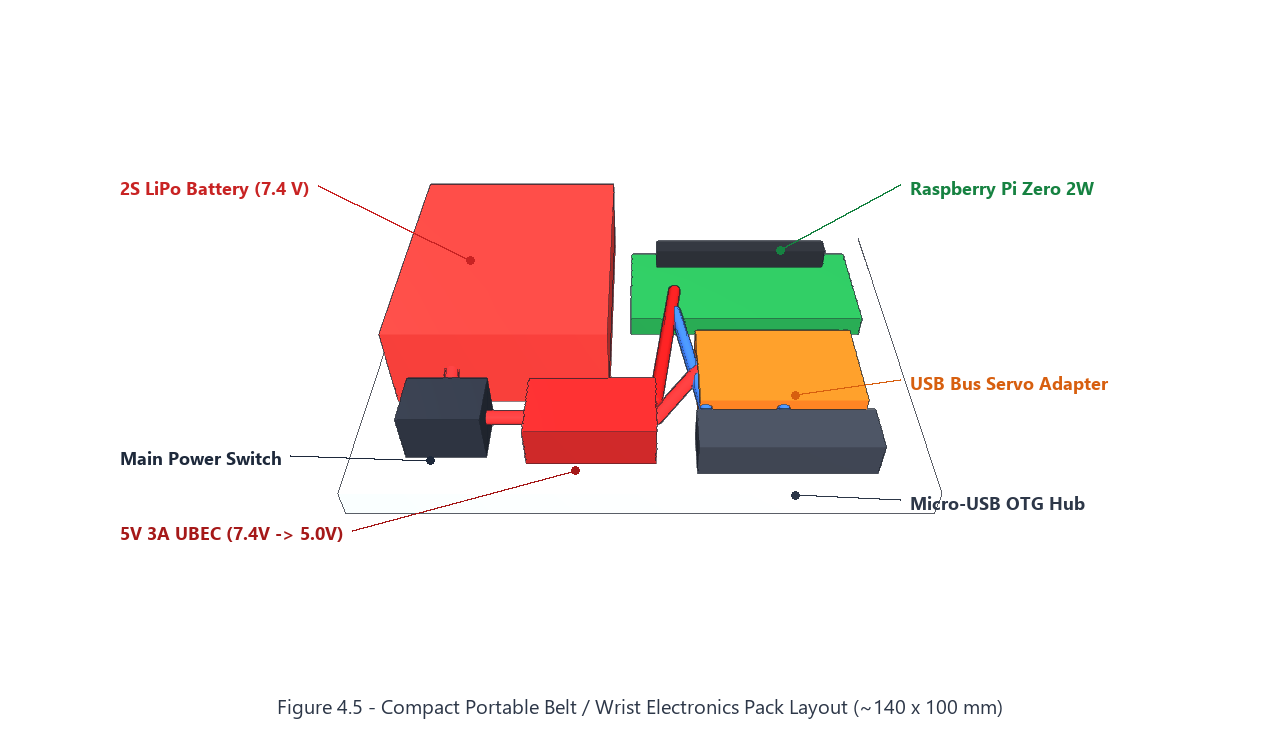
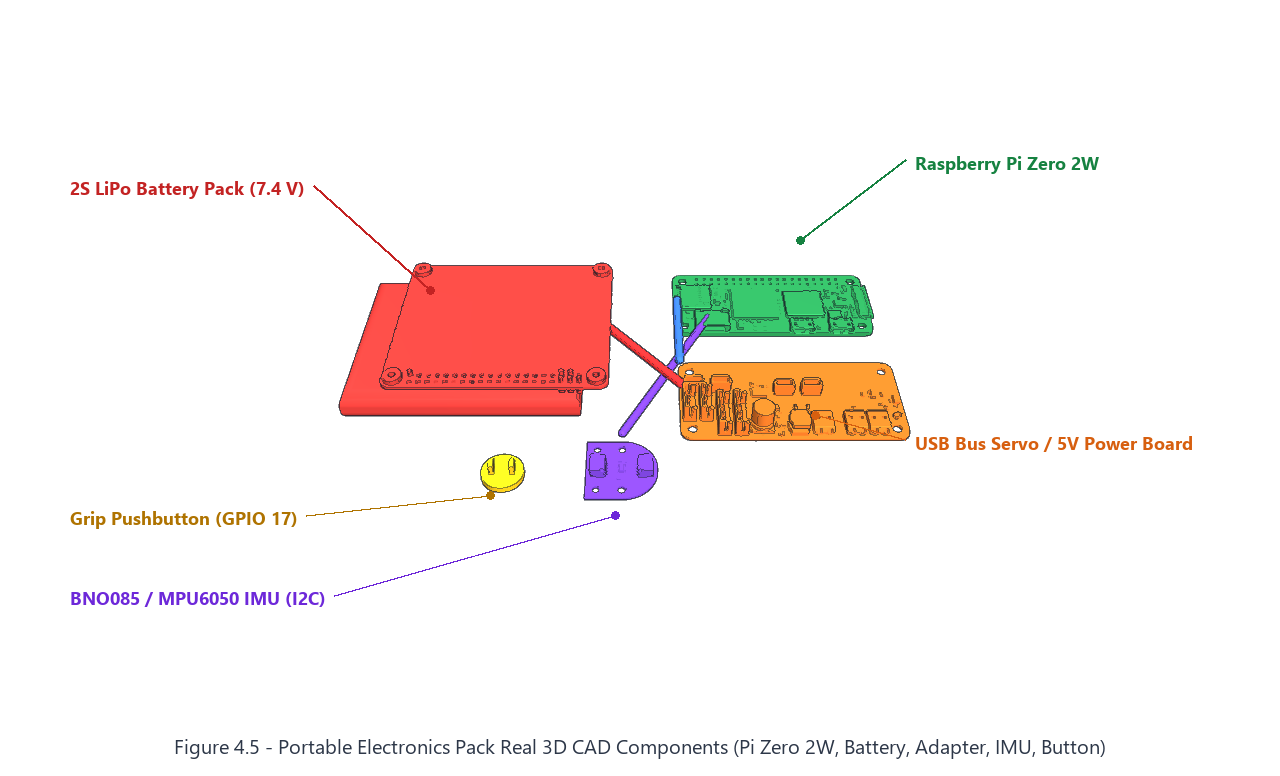
Replace solid primitives with real high-detail 3D CAD meshes (Pi Zero 2W, LiPo battery, adapter PCB, IMU, camera, button)

diff --git a/docs/render_assembly_manual.py b/docs/render_assembly_manual.py
@@ -68,6 +68,37 @@ def _render_tech_view(xml: str, w: int = 1280, h: int = 760, qpos=None) -> Image
     return Image.fromarray(np.clip(out, 0, 255).astype(np.uint8))
 
 
+def ensure_electronics_cad():
+    """Center and copy real open-source electronics CAD STLs (from Grabette Apache-2.0) into UMI_MESH_DIR."""
+    import trimesh
+    grab_root = ROOT / ".cache" / "grabette"
+    specs = [
+        ("pi_zero_cad.stl", "rasp_pi_0_2w__configuration_default.stl", 1.0, (90, 0, 0)),
+        ("battery_cad.stl", "pisugar3plus.stl", 1.0, (90, 0, 0)),
+        ("hat_cad.stl", "ase01187_elec_rpi_hat.stl", 1.0, (0, 0, 0)),
+        ("imu_cad.stl", "sensor.stl", 1.0, (0, 0, 0)),
+        ("button_cad.stl", "Button.stl", 1.0, (0, 0, 0)),
+        ("cam_cad.stl", "arducam_fisheye.stl", 20.0 / 36.0, (0, 0, 0)),
+    ]
+    for dst_name, src_name, scale, rot_deg in specs:
+        dst = UMI_MESH_DIR / dst_name
+        matches = list(grab_root.rglob(src_name))
+        if not matches:
+            raise FileNotFoundError(f"Missing real CAD mesh {src_name} in {grab_root}")
+        m = trimesh.load(matches[0])
+        if scale != 1.0:
+            m.apply_scale(scale)
+        if any(rot_deg):
+            from scipy.spatial.transform import Rotation as Rot
+            T = np.eye(4)
+            T[:3, :3] = Rot.from_euler("xyz", rot_deg, degrees=True).as_matrix()
+            m.apply_transform(T)
+        # Center XY and rest bottom at z = 0
+        b = m.bounds
+        m.apply_translation([-(b[0][0] + b[1][0]) / 2.0, -(b[0][1] + b[1][1]) / 2.0, -b[0][2]])
+        m.export(dst)
+
+
 def _base_header(w=1280, h=760, fovy=32):
     mesh_dir = str(UMI_MESH_DIR).replace("\\", "/")
     return f"""
@@ -89,8 +120,13 @@ def _base_header(w=1280, h=760, fovy=32):
     <material name="brass_mat" rgba="0.86 0.66 0.22 1" roughness="0.25" specular="0.65"/>
     <material name="steel_mat" rgba="0.62 0.66 0.72 1" roughness="0.25" specular="0.65"/>
     <material name="spring_mat" rgba="0.85 0.18 0.18 1" roughness="0.35" specular="0.30"/>
-    <material name="cam_mat" rgba="0.14 0.16 0.20 1" roughness="0.35" specular="0.35"/>
+    <material name="cam_mat" rgba="0.18 0.20 0.24 1" roughness="0.35" specular="0.35"/>
     <material name="lens_mat" rgba="0.06 0.12 0.28 1" roughness="0.10" specular="0.90"/>
+    <material name="pcb_green" rgba="0.16 0.56 0.30 1" roughness="0.40" specular="0.25"/>
+    <material name="pcb_purple" rgba="0.44 0.24 0.76 1" roughness="0.40" specular="0.25"/>
+    <material name="pcb_orange" rgba="0.88 0.44 0.14 1" roughness="0.40" specular="0.25"/>
+    <material name="batt_mat" rgba="0.82 0.22 0.20 1" roughness="0.42" specular="0.25"/>
+    <material name="btn_mat" rgba="0.92 0.72 0.10 1" roughness="0.40" specular="0.25"/>
     <material name="guide_mat" rgba="0.35 0.40 0.48 0.9"/>
 
     <mesh name="umi_base" file="umi_base.stl"/>
@@ -98,6 +134,12 @@ def _base_header(w=1280, h=760, fovy=32):
     <mesh name="umi_servo" file="umi_servo.stl"/>
     <mesh name="umi_grip" file="umi_grip.stl"/>
     <mesh name="umi_lever" file="umi_lever.stl"/>
+    <mesh name="pi_zero_cad" file="pi_zero_cad.stl"/>
+    <mesh name="battery_cad" file="battery_cad.stl"/>
+    <mesh name="hat_cad" file="hat_cad.stl"/>
+    <mesh name="imu_cad" file="imu_cad.stl"/>
+    <mesh name="button_cad" file="button_cad.stl"/>
+    <mesh name="cam_cad" file="cam_cad.stl"/>
   </asset>
   <worldbody>
     <light pos="0.5 -0.6 0.8" dir="-0.4 0.5 -0.7" diffuse="0.52 0.52 0.52" specular="0.15 0.15 0.15" castshadow="false"/>
@@ -486,12 +528,12 @@ def make_07d_cable_routing():
       <geom type="mesh" mesh="umi_lever" material="ctx_mat"/>
     </body>
 
-    <!-- BNO085 IMU mounted flat on top of the grip beam -->
-    <geom type="box" pos="-0.052 -0.028 -0.005" size="0.011 0.009 0.0025" rgba="0.48 0.22 0.85 1"/>
+    <!-- Real I2C IMU Breakout CAD (7.8k faces) mounted flat on top of the grip beam -->
+    <geom type="mesh" pos="-0.052 -0.028 -0.008" mesh="imu_cad" material="pcb_purple"/>
 
-    <!-- Tactile Start/Stop Pushbutton (yellow) + Status LED (red) on upper rear of pistol grip -->
-    <geom type="cylinder" pos="-0.066 -0.037 -0.044" euler="0 1.5708 0" size="0.0055 0.0035" rgba="0.92 0.72 0.08 1"/>
-    <geom type="sphere" pos="-0.066 -0.037 -0.058" size="0.0035" material="spring_mat"/>
+    <!-- Real Tactile Start/Stop Pushbutton CAD on upper rear of pistol grip + Status LED -->
+    <geom type="mesh" pos="-0.064 -0.037 -0.046" euler="0 -1.5708 0" mesh="button_cad" material="btn_mat"/>
+    <geom type="sphere" pos="-0.065 -0.037 -0.060" size="0.0032" material="spring_mat"/>
 
     <!-- 3-pin STS3215 Servo Cable (blue) routing out of base and down rear of pistol grip -->
     <geom type="capsule" fromto="-0.025 -0.015 -0.022  -0.068 -0.030 -0.030" size="0.0022" material="base_mat"/>
@@ -590,54 +632,44 @@ def make_07e_pi_gpio_pinout():
 
 
 def make_07f_portable_pack_3d():
-    """Figure 4.5 - 3D Layout of the Portable Belt/Wrist Electronics Pack."""
-    xml = _base_header(1280, 680, fovy=32) + """
-    <!-- Pack base tray (130 x 95 mm compact belt pouch footprint) -->
-    <geom type="box" pos="0 0 -0.004" size="0.072 0.052 0.004" rgba="0.88 0.90 0.93 1"/>
+    """Figure 4.5 - 100% Real 3D CAD Layout of the Portable Electronics Pack (Pi Zero 2W, LiPo, Adapter HAT, IMU)."""
+    xml = _base_header(1280, 720, fovy=28) + """
+    <!-- Real 5k-face LiPo Battery Pack CAD (left) -->
+    <geom type="mesh" pos="-0.048 0.0 0.0" mesh="battery_cad" material="batt_mat"/>
 
-    <!-- 2S LiPo Battery (7.4V, red/silver brick on left) -->
-    <geom type="box" pos="-0.036 0.012 0.012" size="0.028 0.034 0.012" rgba="0.86 0.22 0.20 1"/>
-    <!-- Main Power Toggle Switch -->
-    <geom type="box" pos="-0.048 -0.034 0.007" size="0.010 0.007 0.007" rgba="0.16 0.18 0.22 1"/>
-    <!-- 5V 3A UBEC Buck Converter (dark red module) -->
-    <geom type="box" pos="-0.012 -0.034 0.006" size="0.016 0.009 0.006" rgba="0.72 0.14 0.14 1"/>
+    <!-- Real 103k-face Raspberry Pi Zero 2W CAD (right-top) -->
+    <geom type="mesh" pos="0.044 0.024 0.0" mesh="pi_zero_cad" material="pcb_green"/>
 
-    <!-- Raspberry Pi Zero 2W (green PCB on right-top) -->
-    <geom type="box" pos="0.030 0.018 0.004" size="0.0325 0.015 0.003" rgba="0.14 0.58 0.28 1"/>
-    <geom type="box" pos="0.030 0.029 0.009" size="0.025 0.0025 0.004" rgba="0.15 0.16 0.18 1"/>
+    <!-- Real 100k-face Bus / Power Adapter Board CAD (right-bottom) -->
+    <geom type="mesh" pos="0.044 -0.024 0.0" mesh="hat_cad" material="pcb_orange"/>
 
-    <!-- USB Bus Servo Adapter (orange/blue PCB right-bottom) -->
-    <geom type="box" pos="0.036 -0.018 0.005" size="0.021 0.013 0.005" rgba="0.92 0.45 0.12 1"/>
-    <!-- Micro-USB OTG Hub (compact dark gray bar) -->
-    <geom type="box" pos="0.036 -0.040 0.005" size="0.022 0.006 0.005" rgba="0.22 0.24 0.28 1"/>
+    <!-- Real 7.8k-face IMU Breakout CAD + Real Pushbutton CAD (front-center) -->
+    <geom type="mesh" pos="-0.005 -0.048 0.0" mesh="imu_cad" material="pcb_purple"/>
+    <geom type="mesh" pos="-0.038 -0.048 0.0" mesh="button_cad" material="btn_mat"/>
 
-    <!-- Interconnect wires -->
-    <geom type="capsule" fromto="-0.048 -0.020 0.012  -0.048 -0.030 0.008" size="0.0018" material="spring_mat"/>
-    <geom type="capsule" fromto="-0.038 -0.034 0.007  -0.026 -0.034 0.007" size="0.0018" material="spring_mat"/>
-    <geom type="capsule" fromto=" 0.004 -0.034 0.007   0.015 -0.018 0.007" size="0.0018" material="spring_mat"/>
-    <geom type="capsule" fromto=" 0.004 -0.028 0.007   0.010  0.015 0.007" size="0.0018" rgba="0.75 0.10 0.10 1"/>
-    <geom type="capsule" fromto=" 0.036 -0.032 0.007   0.036 -0.024 0.007" size="0.0016" material="base_mat"/>
-    <geom type="capsule" fromto=" 0.018 -0.040 0.007   0.010  0.006 0.007" size="0.0016" material="base_mat"/>
+    <!-- Clean power/data interconnect wires -->
+    <geom type="capsule" fromto="-0.010 0.005 0.008   0.012 -0.020 0.008" size="0.0014" material="spring_mat"/>
+    <geom type="capsule" fromto=" 0.012 -0.010 0.008   0.012  0.018 0.008" size="0.0014" material="base_mat"/>
+    <geom type="capsule" fromto="-0.005 -0.036 0.004   0.022  0.014 0.004" size="0.0012" material="pcb_purple"/>
 
-    <camera name="cam" pos="0.0 -0.17 0.16" xyaxes="1 0 0 0 0.68 0.73"/>
+    <camera name="cam" pos="0.0 -0.20 0.19" xyaxes="1 0 0 0 0.69 0.72"/>
   </worldbody></mujoco>"""
-    im = _render_tech_view(xml, 1280, 680)
+    im = _render_tech_view(xml, 1280, 720)
     d = ImageDraw.Draw(im)
     f = get_font(18, bold=True)
     labels = [
-        ((120, 175), (470, 260), "2S LiPo Battery (7.4 V)", (200, 35, 35)),
-        ((120, 445), (430, 460), "Main Power Switch", (30, 41, 59)),
-        ((120, 520), (575, 470), "5V 3A UBEC (7.4V -> 5.0V)", (165, 25, 25)),
-        ((910, 175), (780, 250), "Raspberry Pi Zero 2W", (22, 130, 65)),
-        ((910, 370), (795, 395), "USB Bus Servo Adapter", (215, 95, 15)),
-        ((910, 490), (795, 495), "Micro-USB OTG Hub", (45, 55, 72)),
+        ((70, 175), (430, 290), "2S LiPo Battery Pack (7.4 V)", (195, 35, 35)),
+        ((70, 505), (490, 495), "Grip Pushbutton (GPIO 17)", (175, 115, 0)),
+        ((70, 585), (615, 515), "BNO085 / MPU6050 IMU (I2C)", (109, 40, 217)),
+        ((915, 150), (800, 240), "Raspberry Pi Zero 2W", (22, 130, 65)),
+        ((915, 430), (815, 415), "USB Bus Servo / 5V Power Board", (215, 95, 15)),
     ]
     for (tx, ty), (px, py), text, col in labels:
         ex = tx + int(d.textlength(text, font=f)) + 8 if tx < 500 else tx - 10
         d.line([(ex, ty + 10), (px, py)], fill=col, width=2)
         d.ellipse([px - 4, py - 4, px + 4, py + 4], fill=col)
         d.text((tx, ty), text, fill=col, font=f)
-    out = _frame_figure(im, "Figure 4.5 - Compact Portable Belt / Wrist Electronics Pack Layout (~140 x 100 mm)")
+    out = _frame_figure(im, "Figure 4.5 - Portable Electronics Pack Real 3D CAD Components (Pi Zero 2W, Battery, Adapter, IMU, Button)")
     out.save(IMG_DIR / "07f_portable_pack_3d.png")
 
 
@@ -788,7 +820,7 @@ def make_06_spring():
 
 
 def make_07_camera():
-    """Figure 3.2 - 20x20 mm Sourccey Wrist Camera in +y Side Wing."""
+    """Figure 3.3 - Real 20x20 mm Wrist Camera CAD Mesh in +y Side Wing."""
     xml = _base_header(1280, 720, fovy=30) + """
     <geom type="mesh" mesh="umi_grip" material="ctx_mat"/>
     <geom type="mesh" mesh="umi_base" material="base_mat"/>
@@ -796,20 +828,17 @@ def make_07_camera():
       <joint name="q" type="hinge" axis="0 -1 0"/>
       <geom type="mesh" mesh="umi_finger" material="finger_mat"/>
     </body>
-    <!-- 20x20 mm camera floating slightly behind the +y Ø25 mm wing opening -->
-    <body name="cam_mod" pos="-0.036 0.095 -0.0175" euler="0 0 -0.38">
-      <geom type="box" pos="-0.004 0 0" size="0.0035 0.010 0.010" material="cam_mat"/>
-      <geom type="cylinder" pos="0.003 0 0" euler="0 1.5708 0" size="0.0068 0.0045" material="cam_mat"/>
-      <geom type="cylinder" pos="0.0078 0 0" euler="0 1.5708 0" size="0.0048 0.0008" material="lens_mat"/>
+    <!-- Real camera CAD mesh floating behind the +y Ø25 mm wing opening -->
+    <body name="cam_mod" pos="-0.036 0.095 -0.0175" euler="0 1.5708 -0.38">
+      <geom type="mesh" mesh="cam_cad" material="cam_mat"/>
     </body>
     <geom type="capsule" fromto="-0.036 0.095 -0.0175  -0.011 0.050 -0.0175" size="0.0006" material="guide_mat"/>
-    <!-- View from +y rear-top looking cleanly at the Ø25 mm wing opening -->
     <camera name="cam" pos="-0.14 0.25 0.14" xyaxes="-0.82 -0.57 0 0.28 -0.40 0.87"/>
   </worldbody></mujoco>"""
     im = _render_tech_view(xml, 1280, 720, qpos=[math.radians(30.0)])
     out = _frame_figure(
         im,
-        "Figure 3.2 - Sourccey 20x20 mm Wrist Camera mounted behind the +y Ø25 mm wing opening",
+        "Figure 3.3 - Sourccey 20x20 mm Wrist Camera mounted behind the +y Ø25 mm wing opening",
         ["(1) 20x20mm Wrist Camera"],
     )
     out.save(IMG_DIR / "07_camera.png")
@@ -843,6 +872,7 @@ def make_09_operation():
 
 if __name__ == "__main__":
     ensure_assets()
+    ensure_electronics_cad()
     make_01_parts()
     make_02_inserts()
     make_03_grip_on_base()
